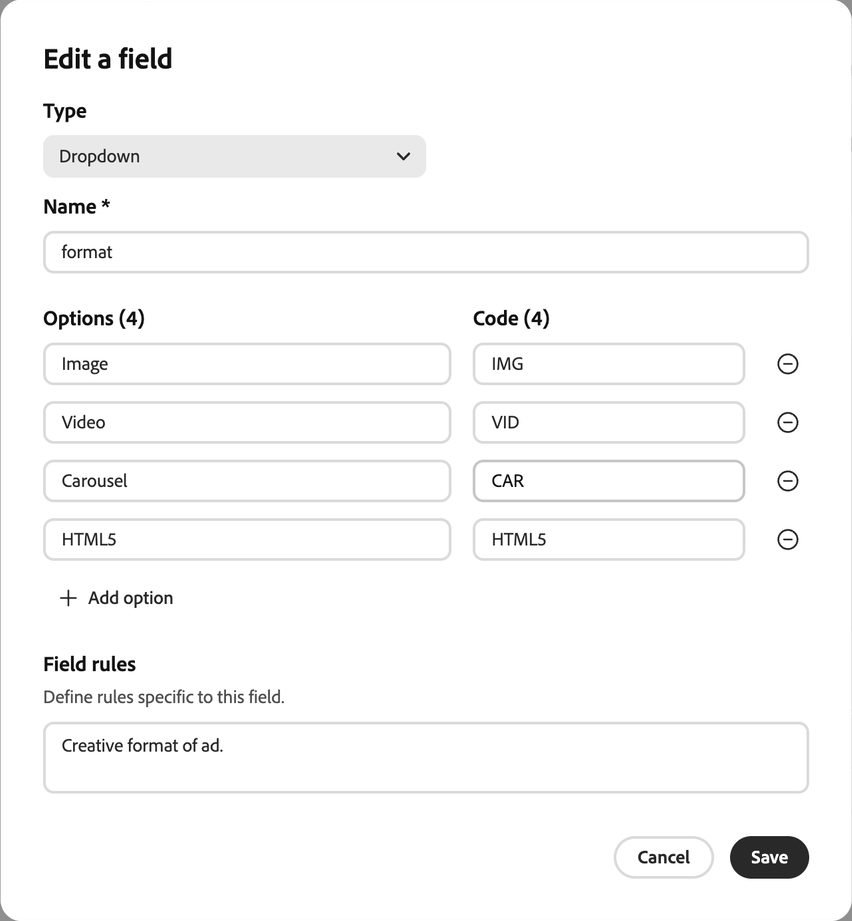
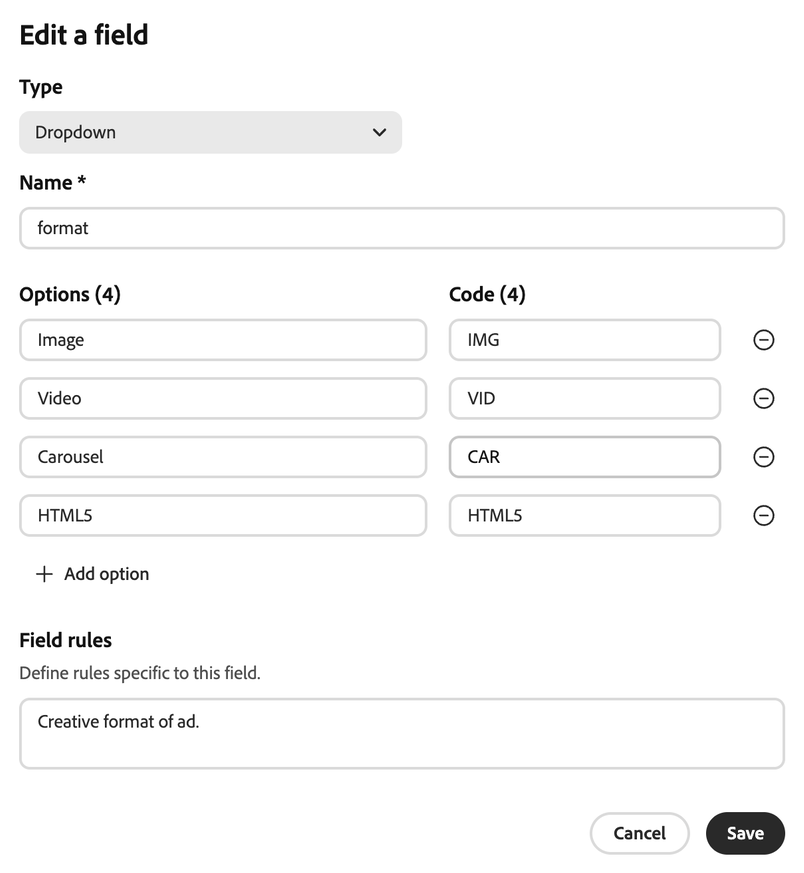
docs: Clarify ad naming and clean screenshots
- ✏ Explain templates and naming steps for first-time users.
- ✏ State that final names become platform ad names.
- ✏ Crop distracting dialog edges from three screenshots.

diff --git a/help/user-guide/activation/generate-ad-names.md b/help/user-guide/activation/generate-ad-names.md
@@ -8,11 +8,15 @@ role: User
 
 Automated ad naming in [!DNL GenStudio for Performance Marketing] helps you follow your organization's naming conventions when you activate ads. Consistent names support performance reporting, attribution, and spend reconciliation.
 
-Upload your naming convention to create a template, then use it to generate names from experience metadata. Review the results and make any corrections before you send ads to your platforms.
+A naming template defines the parts of an ad name, such as product, campaign, and market, and the order in which they appear. You create a template by uploading an Excel file that describes your organization's naming convention.
+
+Use the template to generate names from information about each experience, such as its product or campaign. Review and correct the results before sending your ads. The final names are sent to each destination platform as the ad names.
 
 ## Before you begin
 
-Template setup is a one-time task. If your platform already has a template assigned in your current Project, skip to [Generate names for an activation](#generate-names-for-an-activation).
+You only need to set up a template once. If your platform already has a template assigned in your current Project, skip to [Generate names for an activation](#generate-names-for-an-activation).
+
+Otherwise, create a template and ask a system manager to [assign it to your platforms](#assign-a-template-to-platforms). Each Project can have a different default template for the same platform.
 
 For template setup, prepare an Excel file no larger than 3 MB, with only one sheet. CSV files are not supported. Describe the naming convention for individual ads, not campaigns or ad groups.
 
@@ -21,8 +25,6 @@ Include the fields in their required order, allowed values, corresponding codes,
 Download the [WKND Meta naming convention example (Excel)](assets/wknd-meta-naming-convention.xlsx) to explore a sample structure. It includes field definitions and example values for year, quarter, brand, product, campaign, platform, format, creative version, persona, market, language, and CTA.
 
 Replace the sample values and rules with your organization's convention before using the file for your own activations. The example's platform values illustrate naming choices, not a list of supported activation destinations.
-
-A system manager must assign the template to your platforms. Different Projects can use different default templates for the same platform.
 
 ## Create a naming template
 
@@ -55,7 +57,7 @@ Edit a saved template to adjust its name, fields, separator, or rules.
 1. Open the three-dot menu beside your template.
 1. Select **[!UICONTROL Edit]**.
 1. Select the pencil icon beside the title to rename the template.
-1. Set the **[!UICONTROL Field separator]** to match your convention.
+1. Set the **[!UICONTROL Field separator]** to the character that separates the parts of the name, such as an underscore (`_`).
 1. Drag the fields into the required order.
 
    Use **[!UICONTROL Add field]** or a field's trash icon if you need to change which fields are included.
@@ -114,7 +116,7 @@ The example below shows the template preview, field order, rules, and **[!UICONT
 
 ## Generate names for an activation
 
-Generate names after you prepare your activation and review the experience metadata your template needs, such as campaign, product, or persona.
+Prepare your activation before generating names. Review each experience's metadata, the information about its campaign, product, or persona, to make sure your template has the values it needs. See [Activation workflow](create-activation.md) for help preparing an activation.
 
 1. Open **[!UICONTROL Activate]** in the intended Project.
 1. Add your experiences to an activation.
@@ -126,7 +128,7 @@ Generate names after you prepare your activation and review the experience metad
 
 1. Review the **[!UICONTROL Ad name]** column.
 
-Generation applies to all ads on platforms with an assigned template, except ads with overrides enabled. Names are not generated automatically when you open the table.
+Generation applies to all ads on platforms with an assigned template, except ads with [custom name overrides](#use-a-custom-ad-name). Names are not generated automatically when you open the table.
 
 Initially, each ad uses its experience's name. If a platform has no assigned template, generation leaves its names unchanged, and you can edit them manually.
 
@@ -188,7 +190,7 @@ For example, changing only the persona from `OutdoorBeginners` to `Adventurers` 
 
 ## Use a custom ad name
 
-Override a generated name when an ad needs a complete custom name.
+Use an override to replace the entire generated name with a custom name, rather than editing individual template fields.
 
 1. Select the ad's row.
 1. Select **[!UICONTROL Edit ad name]**.
@@ -209,7 +211,7 @@ To return to template-based naming, follow these steps:
 1. Select **[!UICONTROL Save]**.
 1. Select **[!UICONTROL Generate ad name]** above the activation table.
 
-This generation action also applies to the other eligible ads in the table.
+This action also regenerates names for other ads in the table that have an assigned template and no custom name override.
 
 ## Respond to template changes
 
@@ -232,6 +234,6 @@ Review your final names and address unresolved fields, potential duplicates, and
 
 When the activation is ready, select **[!UICONTROL Send to platforms]**.
 
-Published names exactly match the final names in [!DNL GenStudio for Performance Marketing], including generated names, names edited through template fields, and overridden names.
+[!DNL GenStudio for Performance Marketing] sends each ad's final name to the destination platform as its ad name. This includes generated names, names edited through template fields, and custom name overrides. The ad names on the platform exactly match the final names you reviewed.
 
 For display destinations such as Innovid, names appear as creative names.
